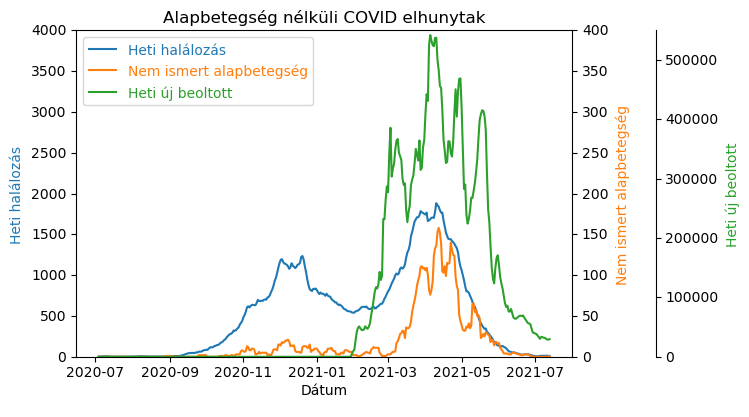
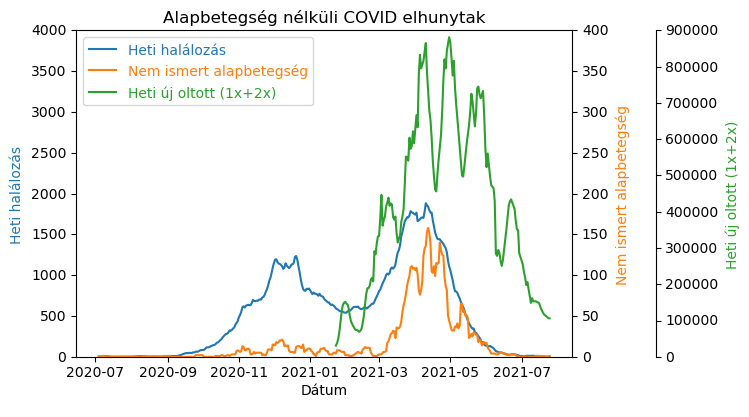
Pontosításként a második oltást is hozzáadtam

diff --git a/kép_alapbetegség_nélküli_elhunytak.py b/kép_alapbetegség_nélküli_elhunytak.py
@@ -15,11 +15,11 @@ def isHealthy(c):
     lower = c.lower()
     return ('nem' in lower) and ('ismert' in lower)
 
-dfcv = pd.read_csv(BASEDIR +"/adatok/covidadatok.csv", parse_dates=['Dátum'])
+dfcv = pd.read_csv(BASEDIR +"/adatok/hiradatok.csv", parse_dates=['Dátum'])
 dfcv = dfcv[dfcv['Dátum'] >= "2020-07-01"].reset_index()
 dfcvroll = dfcv.rolling(7, center=True, min_periods=7).sum()
 dfcv['Heti halálozás'] = dfcvroll['Napi új elhunyt']
-dfcv['Heti új beoltott'] = dfcvroll['Napi új beoltott']
+dfcv['Heti új oltott'] = dfcvroll['Napi új beoltott'] + dfcvroll['Napi új másodszor oltott']
 
 df = pd.read_csv(BASEDIR +"/adatok/elhunytak_datummal.csv", parse_dates=['Dátum'])
 df = df[np.vectorize(isHealthy)(df['Alapbetegségek'])].reset_index()
@@ -57,13 +57,13 @@ host.axis["top"].major_ticks.set_visible(False)
 par1.set_ylabel("Nem ismert alapbetegség")
 par1.set_ylim([0, 400])
 par1.axis[:].major_ticks.set_tick_out(True)
-par2.set_ylabel("Heti új beoltott")
-par2.set_ylim([0, 550000])
+par2.set_ylabel("Heti új oltott (1x+2x)")
+par2.set_ylim([0, 900000])
 par2.axis[:].major_ticks.set_tick_out(True)
 
 p1, = host.plot(df['Dátum'], df['Heti halálozás'], label="Heti halálozás")
 p2, = par1.plot(df['Dátum'], df['Nem ismert alapbetegség'], label="Nem ismert alapbetegség")
-p3, = par2.plot(df['Dátum'], df['Heti új beoltott'], label="Heti új beoltott")
+p3, = par2.plot(df['Dátum'], df['Heti új oltott'], label="Heti új oltott (1x+2x)")
 
 leg = plt.legend(loc='upper left')
 
